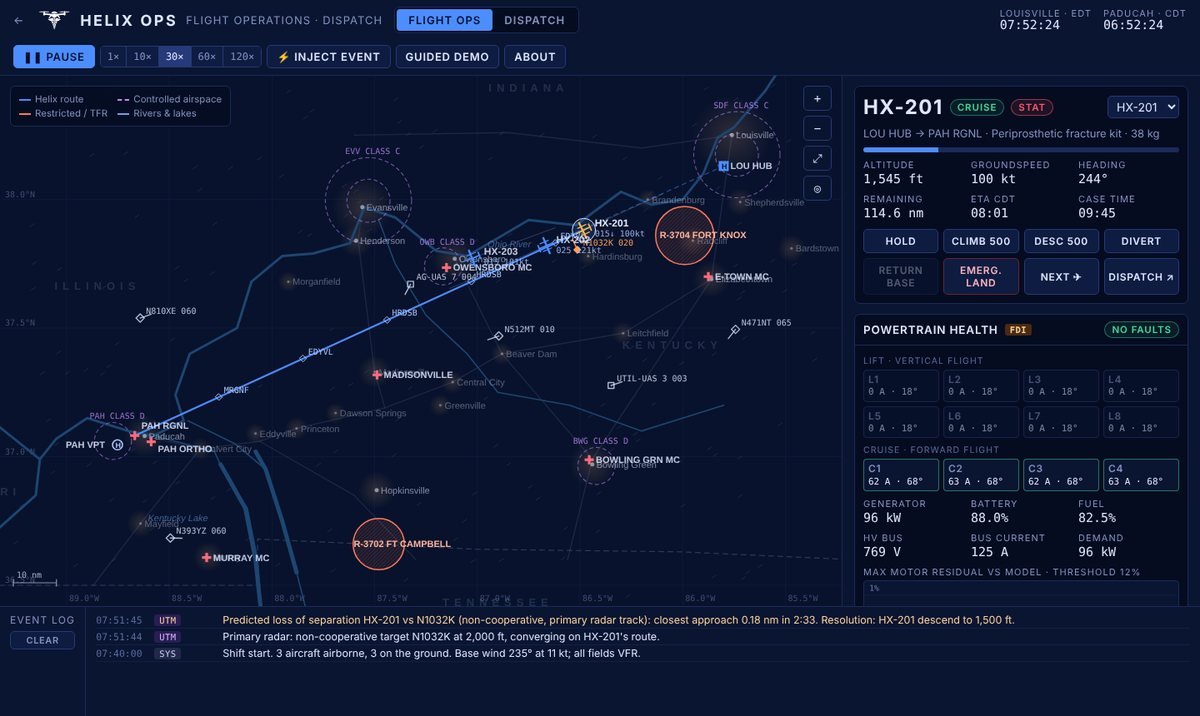
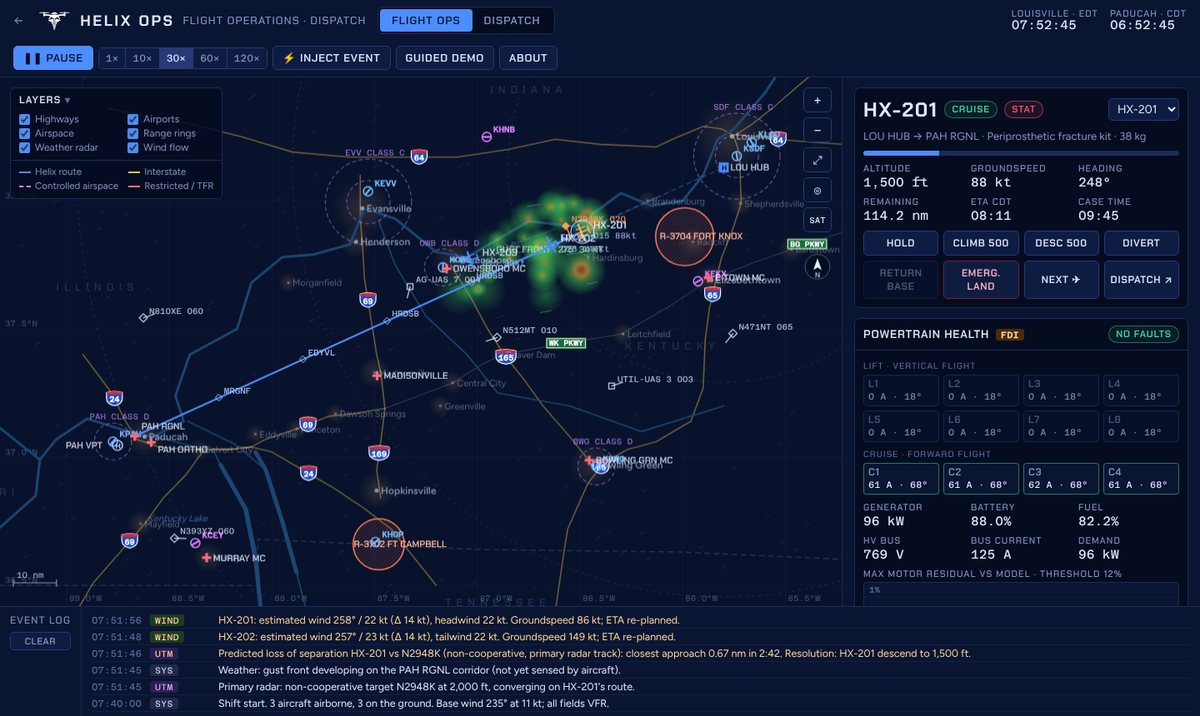
Simulator map: highways, airports, range rings, radar and layers
- Interstates and parkways with shields, real airports with ICAO codes
- Range rings from the Louisville hub, weather radar echoes for gust fronts
- Layers panel, cursor lat/lon readout, north arrow; refreshed console screenshot

Claude-Session: https://claude.ai/code/session_01QEB5CvQ6KkvKdKQh9gue2y

diff --git a/simulator.html b/simulator.html
@@ -63,7 +63,15 @@ button{cursor:pointer}
 .mapctl button{width:34px;height:30px;background:rgba(10,21,50,.9);border:1px solid var(--line2);border-radius:5px;font-family:var(--f-mono)}
 .mapctl button[aria-pressed="true"]{border-color:var(--accent);color:var(--accent2)}
 .legend{position:absolute;left:12px;top:12px;background:rgba(5,12,32,.82);border:1px solid var(--line);border-radius:6px;padding:8px 10px;font-size:11.5px;color:var(--muted);display:grid;grid-template-columns:auto auto;gap:3px 12px;max-width:calc(100% - 80px)}
-.legend i{display:inline-block;width:14px;height:0;border-top:2px solid;vertical-align:middle;margin-right:5px}
+.legend i,.legend2 i{display:inline-block;width:14px;height:0;border-top:2px solid;vertical-align:middle;margin-right:5px}
+.layers{position:absolute;left:12px;top:12px;background:rgba(5,12,32,.86);border:1px solid var(--line);border-radius:6px;font-size:12px;color:var(--muted);max-width:calc(100% - 80px);z-index:3}
+.layers summary{padding:6px 10px;font-family:var(--f-display);font-weight:600;letter-spacing:.1em;text-transform:uppercase;font-size:12px;color:var(--text)}
+.layers summary::after{content:" ▾";color:var(--dim)}
+.layers .lyr{display:grid;grid-template-columns:auto auto;gap:3px 14px;padding:2px 10px 8px}
+.layers label{display:flex;gap:6px;align-items:center;cursor:pointer;white-space:nowrap}
+.layers input{accent-color:var(--accent);margin:0}
+.legend2{display:grid;grid-template-columns:auto auto;gap:3px 12px;padding:6px 10px 8px;border-top:1px solid var(--line);font-size:11.5px}
+#cursorRead{position:absolute;left:12px;bottom:58px;font-family:var(--f-mono);font-size:10.5px;color:rgba(223,231,255,.85);background:rgba(5,12,32,.72);border:1px solid var(--line);border-radius:4px;padding:3px 7px;pointer-events:none;z-index:3;white-space:nowrap}
 #alerts{position:absolute;left:50%;transform:translateX(-50%);top:12px;width:min(560px,calc(100% - 120px));display:flex;flex-direction:column;gap:8px;z-index:5}
 .alert{background:rgba(10,21,50,.97);border:1px solid var(--line2);border-left:5px solid var(--accent);border-radius:6px;padding:10px 12px;box-shadow:0 8px 30px rgba(0,0,0,.45)}
 .alert.warning{border-left-color:var(--warn)}
@@ -194,7 +202,8 @@ details>summary::-webkit-details-marker{display:none}
   .side{border-left:0;border-top:1px solid var(--line);overflow:visible}
   .log{height:220px}
   .clocks{margin-left:0}
-  .legend{display:none}
+  .layers{max-width:calc(100% - 70px)}
+  #cursorRead{display:none}
   #alerts{width:calc(100% - 70px);left:12px;transform:none}
   #guide{width:calc(100% - 24px);bottom:auto;top:auto;bottom:12px}
   #vcam{width:180px;bottom:auto;top:12px;right:56px}
@@ -237,12 +246,23 @@ details>summary::-webkit-details-marker{display:none}
   <main class="main">
     <section class="mapwrap" aria-label="Airspace map">
       <canvas id="map"></canvas>
-      <div class="legend" aria-hidden="true">
-        <span><i style="border-color:var(--accent)"></i>Helix route</span>
-        <span><i style="border-color:var(--air);border-top-style:dashed"></i>Controlled airspace</span>
-        <span><i style="border-color:#ff7a59"></i>Restricted / TFR</span>
-        <span><i style="border-color:#6fa0e8"></i>Rivers &amp; lakes</span>
-      </div>
+      <details class="layers" id="layers" open>
+        <summary>Layers</summary>
+        <div class="lyr">
+          <label><input type="checkbox" data-layer="hwy" checked> Highways</label>
+          <label><input type="checkbox" data-layer="apt" checked> Airports</label>
+          <label><input type="checkbox" data-layer="air" checked> Airspace</label>
+          <label><input type="checkbox" data-layer="rings" checked> Range rings</label>
+          <label><input type="checkbox" data-layer="wx" checked> Weather radar</label>
+          <label><input type="checkbox" data-layer="wind" checked> Wind flow</label>
+        </div>
+        <div class="legend2" aria-hidden="true">
+          <span><i style="border-color:var(--accent)"></i>Helix route</span>
+          <span><i style="border-color:#f5c451"></i>Interstate</span>
+          <span><i style="border-color:var(--air);border-top-style:dashed"></i>Controlled airspace</span>
+          <span><i style="border-color:#ff7a59"></i>Restricted / TFR</span>
+        </div>
+      </details>
       <div class="mapctl">
         <button id="zIn" aria-label="Zoom in">+</button>
         <button id="zOut" aria-label="Zoom out">−</button>
@@ -250,6 +270,7 @@ details>summary::-webkit-details-marker{display:none}
         <button id="follow" aria-pressed="false" aria-label="Follow selected aircraft" title="Follow selected aircraft">◎</button>
         <button id="satBtn" aria-pressed="false" disabled aria-label="Toggle satellite imagery" title="Satellite imagery" style="font-size:10px">SAT</button>
       </div>
+      <div id="cursorRead" hidden></div>
       <div id="satAttr" hidden style="position:absolute;right:12px;bottom:22px;font-family:var(--f-mono);font-size:10px;color:rgba(223,231,255,.6);z-index:3;pointer-events:none">Imagery: NASA Blue Marble · GIBS</div>
       <div id="alerts" aria-live="polite"></div>
       <div id="vcam" hidden><header><span>Vision landing</span><span id="vcamStat">—</span></header><canvas id="vcamc" width="520" height="390"></canvas></div>
@@ -400,6 +421,22 @@ const LAKES=[polyKm([[36.97,-88.25],[36.80,-88.13],[36.60,-88.08],[36.30,-88.04]
 const BORDERS=[polyKm([[36.50,-89.55],[36.50,-88.07],[36.68,-88.07],[36.64,-87.0],[36.63,-86.0],[36.59,-84.9]])];
 const STATE_LABELS=[['INDIANA',38.42,-86.75],['ILLINOIS',37.65,-88.85],['TENNESSEE',36.42,-86.9],['KENTUCKY',37.42,-86.05],['MISSOURI',36.85,-89.45]].map(([n,la,lo])=>({n,...xy(la,lo)}));
 const ROADS=[[[38.25,-85.76],[37.69,-85.86],[36.99,-86.44],[36.60,-86.56]],[[38.25,-85.76],[38.20,-86.20],[38.26,-86.85],[38.25,-87.60]],[[37.69,-85.86],[37.48,-86.29],[37.40,-86.88],[37.29,-87.12],[37.19,-87.45],[37.11,-87.88],[37.06,-88.06]],[[37.08,-88.62],[37.03,-88.35],[37.06,-88.06],[36.85,-87.60],[36.60,-87.30]],[[37.19,-87.45],[37.33,-87.50],[37.84,-87.58],[37.97,-87.56]],[[37.77,-87.11],[37.40,-86.88],[36.99,-86.44]],[[37.03,-88.35],[36.74,-88.64],[36.50,-88.87]]].map(polyKm);
+const HWY=[
+ {id:'65',t:'I',f:[.30,.72],pts:[[38.256,-85.754],[38.215,-85.735],[38.17,-85.722],[38.10,-85.72],[37.99,-85.715],[37.88,-85.76],[37.78,-85.81],[37.70,-85.835],[37.58,-85.87],[37.46,-85.89],[37.27,-85.90],[37.14,-85.96],[37.06,-86.13],[37.03,-86.27],[36.98,-86.38],[36.90,-86.46],[36.72,-86.56],[36.62,-86.58],[36.40,-86.62]]},
+ {id:'64',t:'I',f:[.18,.62],pts:[[38.37,-84.85],[38.22,-85.22],[38.24,-85.55],[38.255,-85.70],[38.258,-85.76],[38.28,-85.81],[38.29,-85.90],[38.24,-86.05],[38.21,-86.13],[38.22,-86.40],[38.24,-86.62],[38.20,-86.85],[38.17,-87.10],[38.17,-87.40],[38.17,-87.62],[38.19,-87.90],[38.25,-88.15],[38.30,-88.40],[38.36,-88.80]]},
+ {id:'71',t:'I',f:[.5],pts:[[38.258,-85.74],[38.30,-85.66],[38.37,-85.55],[38.46,-85.42],[38.57,-85.25],[38.66,-85.10],[38.75,-84.95]]},
+ {id:'24',t:'I',f:[.12,.62],pts:[[37.40,-88.92],[37.25,-88.78],[37.15,-88.72],[37.07,-88.66],[37.04,-88.55],[37.03,-88.42],[37.03,-88.33],[37.03,-88.20],[37.04,-88.10],[37.02,-88.00],[36.95,-87.85],[36.88,-87.70],[36.80,-87.55],[36.72,-87.42],[36.63,-87.33],[36.50,-87.20]]},
+ {id:'69',t:'I',f:[.2,.5,.86],pts:[[38.10,-87.57],[37.93,-87.57],[37.84,-87.56],[37.70,-87.55],[37.55,-87.52],[37.40,-87.49],[37.33,-87.47],[37.19,-87.45],[37.17,-87.60],[37.16,-87.72],[37.11,-87.88],[37.07,-88.03],[37.04,-88.10],[37.03,-88.20],[37.03,-88.33],[36.93,-88.42],[36.84,-88.53],[36.74,-88.62],[36.62,-88.75],[36.51,-88.87],[36.40,-88.95]]},
+ {id:'165',t:'I',f:[.45],pts:[[37.75,-87.13],[37.62,-87.03],[37.50,-86.95],[37.40,-86.87],[37.30,-86.77],[37.20,-86.68],[37.08,-86.55],[36.99,-86.46]]},
+ {id:'169',t:'I',f:[.5],pts:[[36.84,-87.47],[36.95,-87.49],[37.06,-87.47],[37.19,-87.45]]},
+ {id:'264',t:'I',f:[.5],zoom:3,pts:[[38.27,-85.84],[38.22,-85.82],[38.19,-85.77],[38.185,-85.72],[38.20,-85.66],[38.235,-85.63],[38.28,-85.64],[38.30,-85.68]]},
+ {id:'265',t:'I',f:[.4],zoom:3,pts:[[38.37,-85.60],[38.30,-85.55],[38.22,-85.54],[38.15,-85.60],[38.11,-85.69],[38.11,-85.77],[38.13,-85.84]]},
+ {id:'WK PKWY',t:'P',f:[.55],pts:[[37.19,-87.45],[37.25,-87.25],[37.29,-87.12],[37.36,-86.98],[37.40,-86.88],[37.44,-86.60],[37.48,-86.30],[37.58,-86.08],[37.66,-85.93],[37.70,-85.88]]},
+ {id:'BG PKWY',t:'P',f:[.5],pts:[[37.70,-85.84],[37.76,-85.65],[37.81,-85.47],[37.87,-85.25],[37.97,-84.95]]},
+].map(h=>({...h,pts:polyKm(h.pts)}));
+const AIRPORTS=[['KSDF','Louisville Intl',38.174,-85.736,170,1],['KLOU','Bowman Field',38.228,-85.664,150,1],['KEKX','Elizabethtown',37.686,-85.925,60,0],['KOWB','Owensboro',37.740,-87.167,180,1],['KEVV','Evansville',38.037,-87.532,40,1],['KBWG','Bowling Green',36.964,-86.420,30,1],['KPAH','Barkley Rgnl',37.061,-88.774,40,1],['KCEY','Murray-Calloway',36.665,-88.373,60,0],['KHOP','Campbell AAF',36.669,-87.496,50,1],['KHNB','Huntingburg',38.249,-86.954,90,0]].filter(a=>a[2]).map(([id,name,la,lo,h,tw])=>({id,name,...xy(la,lo),h,tw,minor:['KLOU','KHNB','KEKX','KCEY'].includes(id)}));
+const LAYERS={hwy:true,apt:true,air:true,rings:true,wx:true,wind:true};
+let MAPSAT=false;
 const FIXES=['BRNDN','HRDSB','CNTRT','DWSPR','EDYVL','GRNVL','MRGNF','LTCHF','PRNCT','KYLAK','SMTHL','BVRDM','HNDRS','CALVT','OHRIV','GLDEN','WSTPT','FALLS','TRIGG','BRKLY'];
 
 /* ================= sim state ================= */
@@ -877,6 +914,9 @@ function updateParticles(rdt){
   if(!parts.length){for(let i=0;i<170;i++)parts.push({x:B0.x+Math.random()*(B1.x-B0.x),y:B0.y+Math.random()*(B1.y-B0.y),life:Math.random()*6})}
   for(const p of parts){const w=windAt(p,2000);const k=S.paused?0:500;p.px=p.x;p.py=p.y;p.x+=w.u*k*rdt;p.y+=w.v*k*rdt;p.life-=rdt;p.w=w;if(p.life<=0||p.x<B0.x||p.x>B1.x||p.y<B0.y||p.y>B1.y){p.x=B0.x+Math.random()*(B1.x-B0.x);p.y=B0.y+Math.random()*(B1.y-B0.y);p.life=4+Math.random()*4}}
 }
+function T(txt,x,y){if(MAPSAT){cx.save();cx.lineJoin='round';cx.strokeStyle='rgba(2,6,16,0.8)';cx.lineWidth=3.2;cx.strokeText(txt,x,y);cx.restore()}cx.fillText(txt,x,y)}
+function shield(X,Y,num){const c=cx;const w=num.length>2?24:19,h=17;c.save();c.translate(X-w/2,Y-h/2);c.beginPath();c.moveTo(0,1);c.quadraticCurveTo(w/2,-2,w,1);c.lineTo(w,8);c.quadraticCurveTo(w,15,w/2,h);c.quadraticCurveTo(0,15,0,8);c.closePath();c.fillStyle='#1f4fbf';c.fill();c.strokeStyle='#ffffff';c.lineWidth=1.2;c.stroke();c.save();c.clip();c.fillStyle='#d6283a';c.fillRect(0,-2,w,5.5);c.restore();c.fillStyle='#ffffff';c.font='700 9.5px "Azeret Mono", monospace';c.textAlign='center';c.fillText(num,w/2,12.6);c.restore();c.textAlign='left'}
+function parkSign(X,Y,label){const c=cx;c.font='600 9px "Azeret Mono", monospace';const w=c.measureText(label).width+8;c.fillStyle='#1d6b3a';c.fillRect(X-w/2,Y-7,w,14);c.strokeStyle='rgba(255,255,255,0.85)';c.lineWidth=1;c.strokeRect(X-w/2+1.5,Y-5.5,w-3,11);c.fillStyle='#fff';c.textAlign='center';c.fillText(label,X,Y+3.2);c.textAlign='left'}
 function drawMap(){
   const c=cx;c.setTransform(DPR,0,0,DPR,0,0);
   if(S.follow){const a=sel();if(a){const oy=(H*0.12)/view.s;view.cx+=(a.x-view.cx)*0.08;view.cy+=(a.y+oy-view.cy)*0.08}}
@@ -892,9 +932,17 @@ function drawMap(){
   // borders
   c.setLineDash([6,5]);c.strokeStyle=satOn?'rgba(255,255,255,0.45)':'rgba(169,198,255,0.22)';c.lineWidth=1.2;BORDERS.forEach(b=>{path(b);c.stroke()});c.setLineDash([]);
   c.font='600 13px "Chakra Petch", sans-serif';c.fillStyle=satOn?'rgba(255,255,255,0.4)':'rgba(169,198,255,0.16)';c.textAlign='center';STATE_LABELS.forEach(l=>{c.save();c.letterSpacing='6px';c.fillText(l.n,sx(l.x),sy(l.y));c.restore()});c.textAlign='left';
+  MAPSAT=satOn;
+  // range rings from the Louisville hub
+  if(LAYERS.rings){const hub=FAC.LOU;c.font='10px "Azeret Mono", monospace';[50,100,150].forEach(nm=>{circle(hub,nm*NM);c.setLineDash([2,6]);c.strokeStyle=satOn?'rgba(255,255,255,0.28)':'rgba(169,198,255,0.16)';c.lineWidth=1;c.stroke();c.setLineDash([]);const a=-2.3;const X=sx(hub.x)+Math.cos(a)*nm*NM*view.s,Y=sy(hub.y)+Math.sin(a)*nm*NM*view.s;c.fillStyle=satOn?'rgba(255,255,255,0.7)':'rgba(169,198,255,0.5)';T(nm+' NM',X+4,Y)})}
+  // highways
+  if(LAYERS.hwy){
+    for(const h of HWY){if(h.zoom&&view.s<h.zoom)continue;const I=h.t==='I';
+      if(satOn){c.strokeStyle='rgba(2,6,16,0.6)';c.lineWidth=I?4.6:3.4;c.lineJoin='round';c.lineCap='round';path(h.pts);c.stroke()}
+      c.strokeStyle=I?(satOn?'#f5c451':'rgba(245,196,81,0.42)'):(satOn?'rgba(236,230,210,0.85)':'rgba(223,231,255,0.2)');c.lineWidth=I?(satOn?2:1.6):(satOn?1.4:1.1);path(h.pts);c.stroke()}
+    if(view.s>1.15)for(const h of HWY){if(h.zoom&&view.s<h.zoom)continue;const L=routeLen(h.pts);for(const fr of h.f){const p=pointAlong(h.pts,L*fr);const X=sx(p.x),Y=sy(p.y);if(X<20||Y<20||X>W-20||Y>H-20)continue;h.t==='I'?shield(X,Y,h.id):parkSign(X,Y,h.id)}}
+  }
   if(!satOn){
-  // roads
-  c.strokeStyle='rgba(131,147,194,0.16)';c.lineWidth=1.4;ROADS.forEach(r=>{path(r);c.stroke()});
   // water
   c.strokeStyle='#1d4673';c.lineCap='round';c.lineJoin='round';
   c.lineWidth=3;path(RIVERS.ohio);c.stroke();path(RIVERS.miss);c.stroke();
@@ -903,14 +951,21 @@ function drawMap(){
   c.font='italic 11px Figtree, sans-serif';c.fillStyle='rgba(111,160,232,0.55)';{const p=xy(37.86,-86.95);c.fillText('Ohio River',sx(p.x),sy(p.y)+14);const q=xy(36.75,-88.32);c.fillText('Kentucky Lake',sx(q.x)-70,sy(q.y))}
   }
   // airspace
-  for(const a of AIRSPACE){c.strokeStyle='rgba(197,139,255,0.55)';c.setLineDash([4,4]);c.lineWidth=1.1;a.r.forEach(r=>{circle(a,r);c.stroke()});c.setLineDash([]);if(view.s>1.6){c.font='10px "Azeret Mono", monospace';c.fillStyle='rgba(197,139,255,0.75)';c.fillText(a.label,sx(a.x)-28,sy(a.y)-a.r[a.r.length-1]*view.s-4)}}
+  if(LAYERS.air)for(const a of AIRSPACE){c.strokeStyle='rgba(197,139,255,0.55)';c.setLineDash([4,4]);c.lineWidth=1.1;a.r.forEach(r=>{circle(a,r);c.stroke()});c.setLineDash([]);if(view.s>1.6){c.font='10px "Azeret Mono", monospace';c.fillStyle='rgba(197,139,255,0.75)';c.fillText(a.label,sx(a.x)-28,sy(a.y)-a.r[a.r.length-1]*view.s-4)}}
   for(const r of [...RESTRICTED,...S.tfrs.map(t=>({...t,label:t.id,tfr:true}))]){circle(r,r.r);c.fillStyle=r.tfr?'rgba(255,84,104,0.13)':'rgba(255,122,89,0.08)';c.fill();c.save();c.clip();c.strokeStyle=r.tfr?'rgba(255,84,104,0.35)':'rgba(255,122,89,0.18)';c.lineWidth=1;for(let k=-r.r*2;k<r.r*2;k+=1.6){c.beginPath();c.moveTo(sx(r.x+k-r.r),sy(r.y-r.r));c.lineTo(sx(r.x+k+r.r),sy(r.y+r.r));c.stroke()}c.restore();circle(r,r.r);c.strokeStyle=r.tfr?COL.crit:'#ff7a59';c.lineWidth=1.5;c.stroke();c.font='600 11px "Chakra Petch", sans-serif';c.fillStyle=r.tfr?'#ffb3bd':'#ffb39a';c.fillText(r.label,sx(r.x)-30,sy(r.y)+3)}
   // gusts
-  for(const g of S.gusts){const gr=c.createRadialGradient(sx(g.x),sy(g.y),0,sx(g.x),sy(g.y),g.r*view.s);gr.addColorStop(0,`rgba(168,240,181,${0.16*g.fade})`);gr.addColorStop(1,'rgba(168,240,181,0)');c.fillStyle=gr;circle(g,g.r);c.fill();c.font='600 11px "Chakra Petch", sans-serif';c.fillStyle=`rgba(168,240,181,${0.8*g.fade})`;c.fillText(`GUST FRONT · ${g.dir.toFixed(0)}° ${g.spd} KT`,sx(g.x)-50,sy(g.y))}
+  for(const g of S.gusts){
+    if(LAYERS.wx){if(!g.cells){g.cells=[];for(let i=0;i<26;i++){const a=rnd()*Math.PI*2,d=Math.sqrt(rnd())*g.r*0.85;g.cells.push({dx:Math.cos(a)*d*1.3,dy:Math.sin(a)*d*0.6,r:3+rnd()*8,k:rnd()})}}
+      const rot=Math.atan2(g.vy,g.vx);for(const cl of g.cells){const ex=g.x+cl.dx*Math.cos(rot)-cl.dy*Math.sin(rot),ey=g.y+cl.dx*Math.sin(rot)+cl.dy*Math.cos(rot);const R=cl.r*view.s;const gr=c.createRadialGradient(sx(ex),sy(ey),0,sx(ex),sy(ey),R);const a=0.55*g.fade;
+        if(cl.k>0.7){gr.addColorStop(0,`rgba(255,80,60,${a})`);gr.addColorStop(0.25,`rgba(255,210,60,${a})`);gr.addColorStop(0.55,`rgba(60,200,90,${a*0.8})`)}else if(cl.k>0.35){gr.addColorStop(0,`rgba(255,210,60,${a})`);gr.addColorStop(0.4,`rgba(60,200,90,${a*0.8})`)}else{gr.addColorStop(0,`rgba(60,200,90,${a*0.7})`)}
+        gr.addColorStop(1,'rgba(60,200,90,0)');c.fillStyle=gr;c.beginPath();c.arc(sx(ex),sy(ey),R,0,7);c.fill()}}
+    else{const gr=c.createRadialGradient(sx(g.x),sy(g.y),0,sx(g.x),sy(g.y),g.r*view.s);gr.addColorStop(0,`rgba(168,240,181,${0.16*g.fade})`);gr.addColorStop(1,'rgba(168,240,181,0)');c.fillStyle=gr;circle(g,g.r);c.fill()}c.font='600 11px "Chakra Petch", sans-serif';c.fillStyle=`rgba(168,240,181,${0.8*g.fade})`;c.fillText(`GUST FRONT · ${g.dir.toFixed(0)}° ${g.spd} KT`,sx(g.x)-50,sy(g.y))}
   // wind particles
-  c.lineWidth=1;for(const p of parts){if(p.px===undefined)continue;const sp=Math.hypot(p.w.u,p.w.v)/KT;c.strokeStyle=sp>20?'rgba(168,240,181,0.35)':'rgba(169,198,255,0.13)';c.beginPath();c.moveTo(sx(p.x),sy(p.y));c.lineTo(sx(p.x-p.w.u*400),sy(p.y-p.w.v*400));c.stroke()}
+  if(LAYERS.wind){c.lineWidth=1;for(const p of parts){if(p.px===undefined)continue;const sp=Math.hypot(p.w.u,p.w.v)/KT;c.strokeStyle=sp>20?'rgba(168,240,181,0.35)':'rgba(169,198,255,0.13)';c.beginPath();c.moveTo(sx(p.x),sy(p.y));c.lineTo(sx(p.x-p.w.u*400),sy(p.y-p.w.v*400));c.stroke()}}
   // towns
-  c.font='11px Figtree, sans-serif';for(const t of TOWNS){const big=t.pop>25;if(!big&&view.s<2.2)continue;c.fillStyle='rgba(223,231,255,'+(big?0.55:0.35)+')';c.beginPath();c.arc(sx(t.x),sy(t.y),big?2.5:1.6,0,7);c.fill();c.fillText(t.name,sx(t.x)+5,sy(t.y)+4)}
+  for(const t of TOWNS){const big=t.pop>25;if(!big&&view.s<2.2)continue;c.font=(big?'600 12px':'11px')+' Figtree, sans-serif';c.fillStyle=satOn?'rgba(255,255,255,'+(big?0.95:0.8)+')':'rgba(223,231,255,'+(big?0.55:0.35)+')';c.beginPath();c.arc(sx(t.x),sy(t.y),big?2.5:1.6,0,7);c.fill();T(t.name,sx(t.x)+5,sy(t.y)+4)}
+  // airports (towered blue, non-towered magenta, as on aviation charts)
+  if(LAYERS.apt)for(const a of AIRPORTS){const X=sx(a.x),Y=sy(a.y),col=a.tw?'#6fb7ff':'#e07cff';c.beginPath();c.arc(X,Y,5.5,0,7);c.strokeStyle=col;c.lineWidth=1.6;c.stroke();const r=a.h*Math.PI/180;c.beginPath();c.moveTo(X-Math.sin(r)*4,Y+Math.cos(r)*4);c.lineTo(X+Math.sin(r)*4,Y-Math.cos(r)*4);c.lineWidth=2.2;c.stroke();if(view.s>(a.minor?2.6:1.3)){c.font='600 10px "Azeret Mono", monospace';c.fillStyle=col;T(a.id,X+8,Y-6)}}
   // routes
   const selAc=sel();
   for(const ac of S.aircraft){if(!ac.route.length||(!airborne(ac)&&ac.phase!=='preflight'))continue;const isSel=ac===selAc;const rest=[{x:ac.x,y:ac.y},...ac.route.slice(ac.wp)];
@@ -927,7 +982,7 @@ function drawMap(){
     else if(f.type==='vertiport'){c.beginPath();c.arc(X,Y,6,0,7);c.strokeStyle=COL.accent2;c.lineWidth=1.6;c.stroke();c.fillStyle=COL.accent2;c.font='700 9px "Chakra Petch", sans-serif';c.fillText('H',X-2.5,Y+3.2)}
     else{c.fillStyle='#ff6b7d';c.fillRect(X-1.6,Y-5.5,3.2,11);c.fillRect(X-5.5,Y-1.6,11,3.2)}
     c.font='600 11px "Chakra Petch", sans-serif';c.fillStyle=f.wx.fog?'#f0ea8f':'rgba(223,231,255,0.85)';
-    const lx=k==='POS'?X+8:(k==='PVP'?X-62:X+8),ly=k==='POS'?Y+12:(k==='PRH'?Y-8:Y+4);if(view.s>1.5||f.type==='hub'||k==='PRH')c.fillText(f.short+(f.wx.fog?' · FOG':''),lx,ly)}
+    const lx=k==='POS'?X+8:(k==='PVP'?X-62:X+8),ly=k==='POS'?Y+12:(k==='PRH'?Y-8:Y+4);if(view.s>1.5||f.type==='hub'||k==='PRH')T(f.short+(f.wx.fog?' · FOG':''),lx,ly)}
   // conflicts
   for(const cf of S.conflicts){c.strokeStyle=cf.resolved?'rgba(255,181,71,0.7)':COL.crit;c.setLineDash([4,3]);c.lineWidth=1.5;c.beginPath();c.moveTo(sx(cf.a.x),sy(cf.a.y));c.lineTo(sx(cf.b.x),sy(cf.b.y));c.stroke();c.setLineDash([]);c.beginPath();c.arc(sx(cf.cpa.x),sy(cf.cpa.y),1.85*view.s,0,7);c.strokeStyle=cf.resolved?'rgba(255,181,71,0.5)':'rgba(255,84,104,0.7)';c.stroke()}
   // traffic
@@ -941,6 +996,10 @@ function drawMap(){
     if(ac.phase==='landed_off'){drawAC(ac,ac===selAc)}}
   // scale bar
   const nmPx=10*NM*view.s;c.strokeStyle='rgba(223,231,255,0.6)';c.lineWidth=1.2;c.beginPath();c.moveTo(16,H-28);c.lineTo(16+nmPx,H-28);c.moveTo(16,H-32);c.lineTo(16,H-24);c.moveTo(16+nmPx,H-32);c.lineTo(16+nmPx,H-24);c.stroke();c.fillStyle='rgba(223,231,255,0.7)';c.font='10px "Azeret Mono", monospace';c.fillText('10 nm',20,H-34);
+  // north arrow
+  {const X=W-29,Y=228;c.fillStyle='rgba(5,12,32,0.8)';c.beginPath();c.arc(X,Y,15,0,7);c.fill();c.strokeStyle='rgba(223,231,255,0.35)';c.lineWidth=1;c.stroke();c.fillStyle='#eef1f6';c.beginPath();c.moveTo(X,Y-10);c.lineTo(X+5,Y+4);c.lineTo(X,Y+1);c.lineTo(X-5,Y+4);c.closePath();c.fill();c.font='600 9px "Chakra Petch", sans-serif';c.fillStyle='rgba(223,231,255,0.8)';c.textAlign='center';c.fillText('N',X,Y+13);c.textAlign='left'}
+  // cursor readout
+  {const el=document.getElementById('cursorRead');if(S.mouse){const wx=view.cx+(S.mouse.x-W/2)/view.s,wy=view.cy-(S.mouse.y-H/2)/view.s;const ll=toLL(wx,wy);const hub=FAC.LOU;const d=dist({x:wx,y:wy},hub)/NM,b=bearing(hub,{x:wx,y:wy});const txt=`${ll.lat.toFixed(3)}°N ${Math.abs(ll.lon).toFixed(3)}°W · ${d.toFixed(1)} nm / ${String(Math.round(b)).padStart(3,'0')}° from LOU HUB`;if(el.textContent!==txt)el.textContent=txt;if(el.hidden)el.hidden=false}else if(!el.hidden)el.hidden=true}
   drawVcam();
 }
 function drawAC(ac,isSel){
@@ -1140,9 +1199,11 @@ $('newReq').addEventListener('submit',e=>{e.preventDefault();const [item,kg]=ITE
 let drag=null;
 cv.addEventListener('pointerdown',e=>{drag={x:e.clientX,y:e.clientY,cx:view.cx,cy:view.cy,moved:false};cv.setPointerCapture(e.pointerId)});
 cv.addEventListener('pointermove',e=>{if(!drag)return;const dx=e.clientX-drag.x,dy=e.clientY-drag.y;if(Math.abs(dx)+Math.abs(dy)>4){drag.moved=true;cv.classList.add('dragging');if(S.follow){S.follow=false;$('follow').setAttribute('aria-pressed','false')}}view.cx=drag.cx-dx/view.s;view.cy=drag.cy+dy/view.s});
+cv.addEventListener('pointermove',e=>{const r=cv.getBoundingClientRect();S.mouse={x:e.clientX-r.left,y:e.clientY-r.top}});cv.addEventListener('pointerleave',()=>{S.mouse=null});
 cv.addEventListener('pointerup',e=>{cv.classList.remove('dragging');if(drag&&!drag.moved){const r=cv.getBoundingClientRect();const mx=e.clientX-r.left,my=e.clientY-r.top;let best=null,bd=18;for(const a of S.aircraft){const d=Math.hypot(sx(a.x)-mx,sy(a.y)-my);if(d<bd){bd=d;best=a}}if(best){S.selected=best.id;renderUI()}}drag=null});
 cv.addEventListener('wheel',e=>{e.preventDefault();const r=cv.getBoundingClientRect();const mx=e.clientX-r.left,my=e.clientY-r.top;const wx=view.cx+(mx-W/2)/view.s,wy=view.cy-(my-H/2)/view.s;const f=Math.exp(-e.deltaY*0.0015);view.s=clamp(view.s*f,0.8,40);view.cx=wx-(mx-W/2)/view.s;view.cy=wy+(my-H/2)/view.s},{passive:false});
 $('zIn').onclick=()=>view.s=clamp(view.s*1.35,0.8,40);$('zOut').onclick=()=>view.s=clamp(view.s/1.35,0.8,40);$('zFit').onclick=()=>{fitView();S.follow=false;$('follow').setAttribute('aria-pressed','false')};
+$('layers').addEventListener('change',e=>{const k=e.target.dataset.layer;if(k){LAYERS[k]=e.target.checked}});if(window.innerWidth<820)$('layers').open=false;
 $('satBtn').onclick=()=>{SAT.mode=SAT.mode==='sat'?'chart':'sat';$('satBtn').setAttribute('aria-pressed',SAT.mode==='sat');$('satAttr').hidden=!(SAT.mode==='sat'&&SAT.ready)};
 $('follow').onclick=()=>{S.follow=!S.follow;$('follow').setAttribute('aria-pressed',S.follow)};
 window.addEventListener('resize',()=>{resize()});
